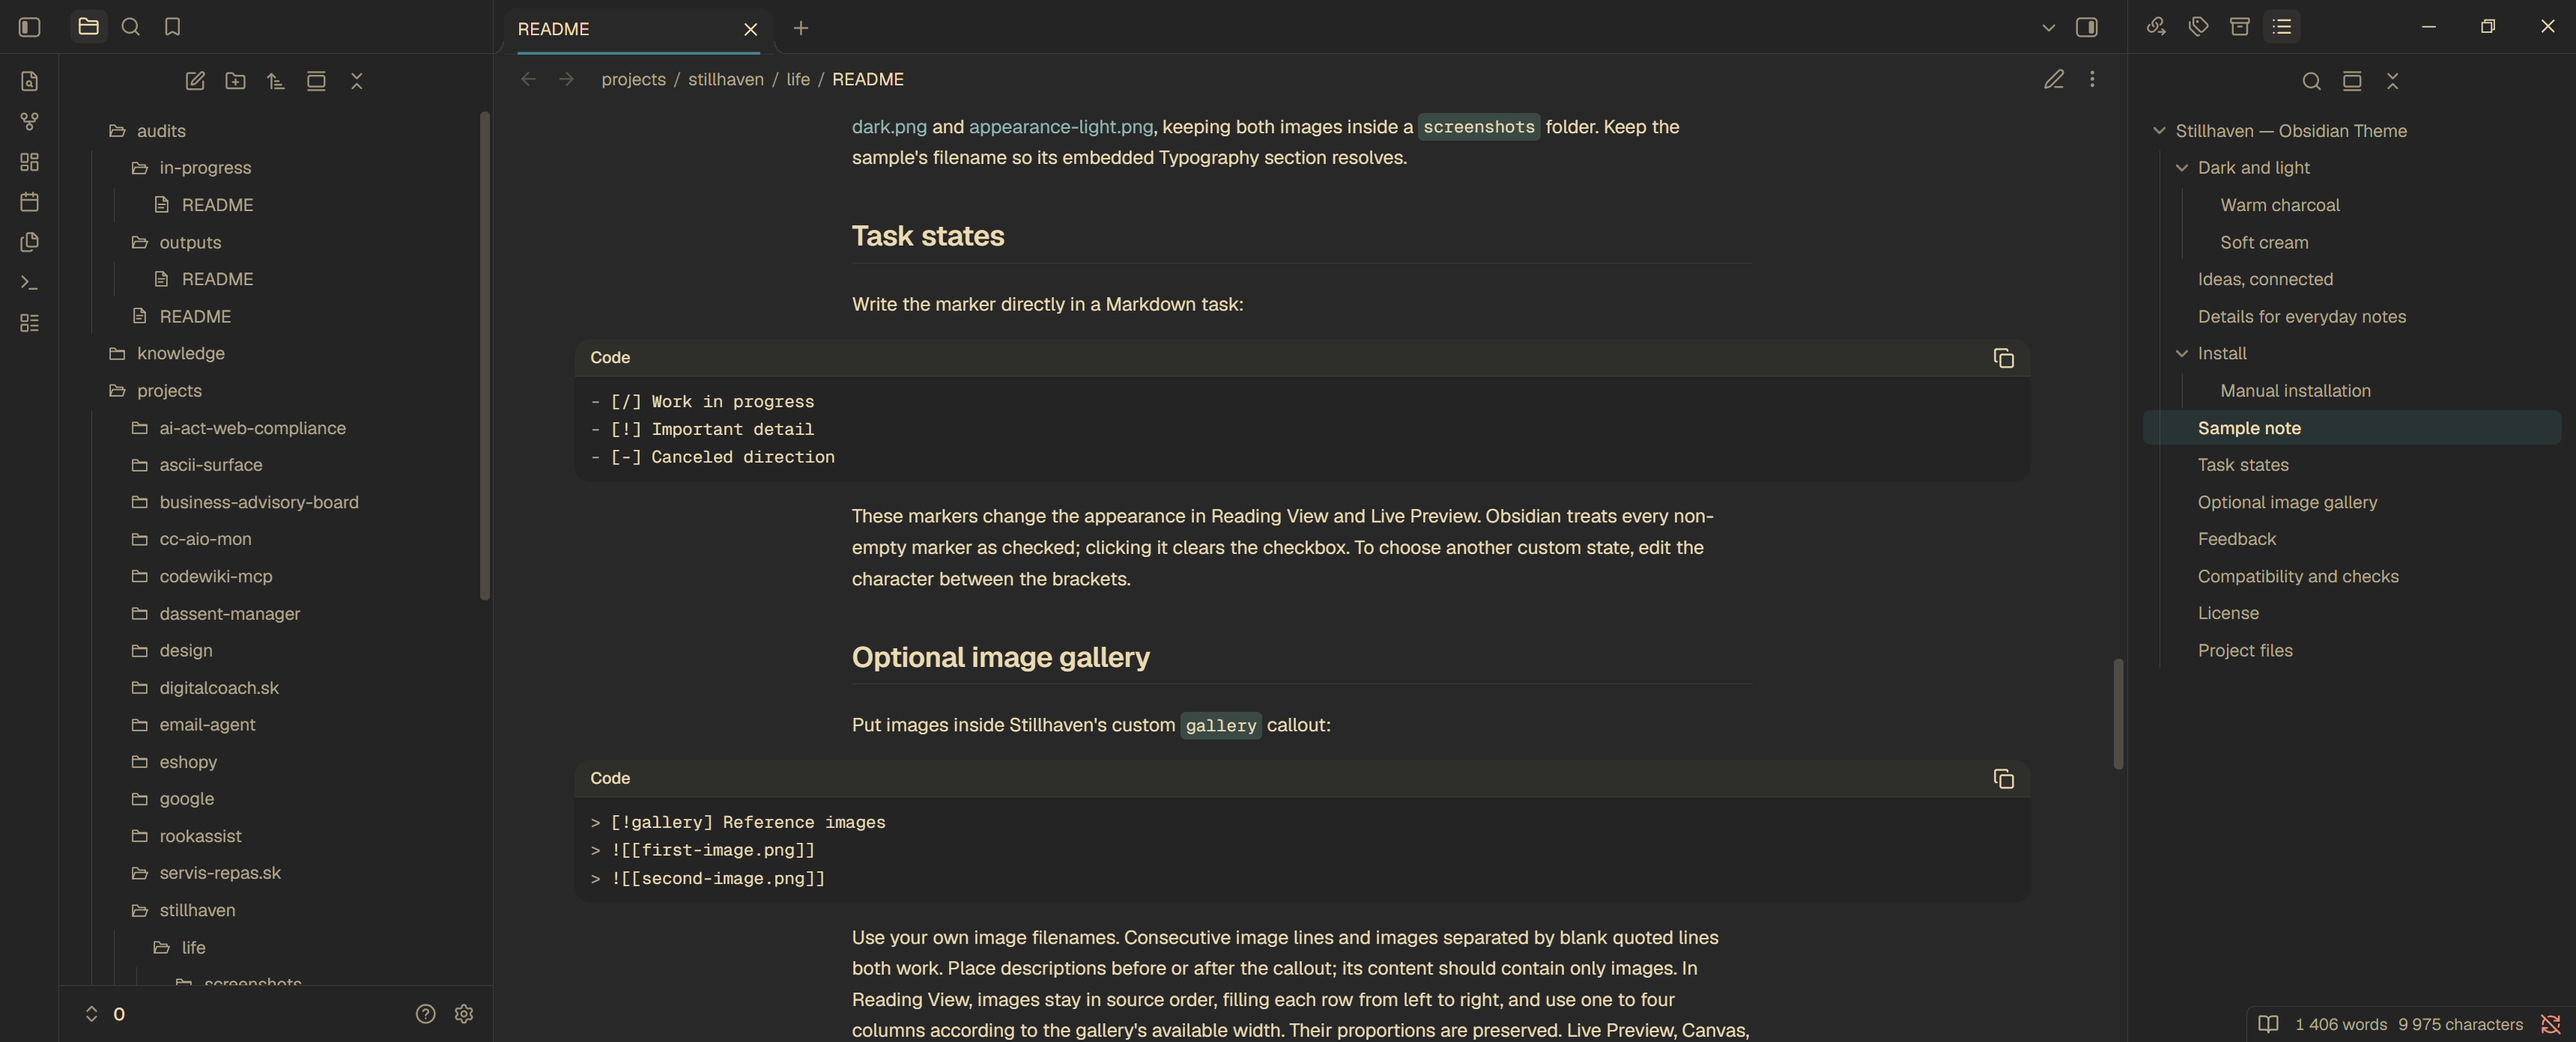
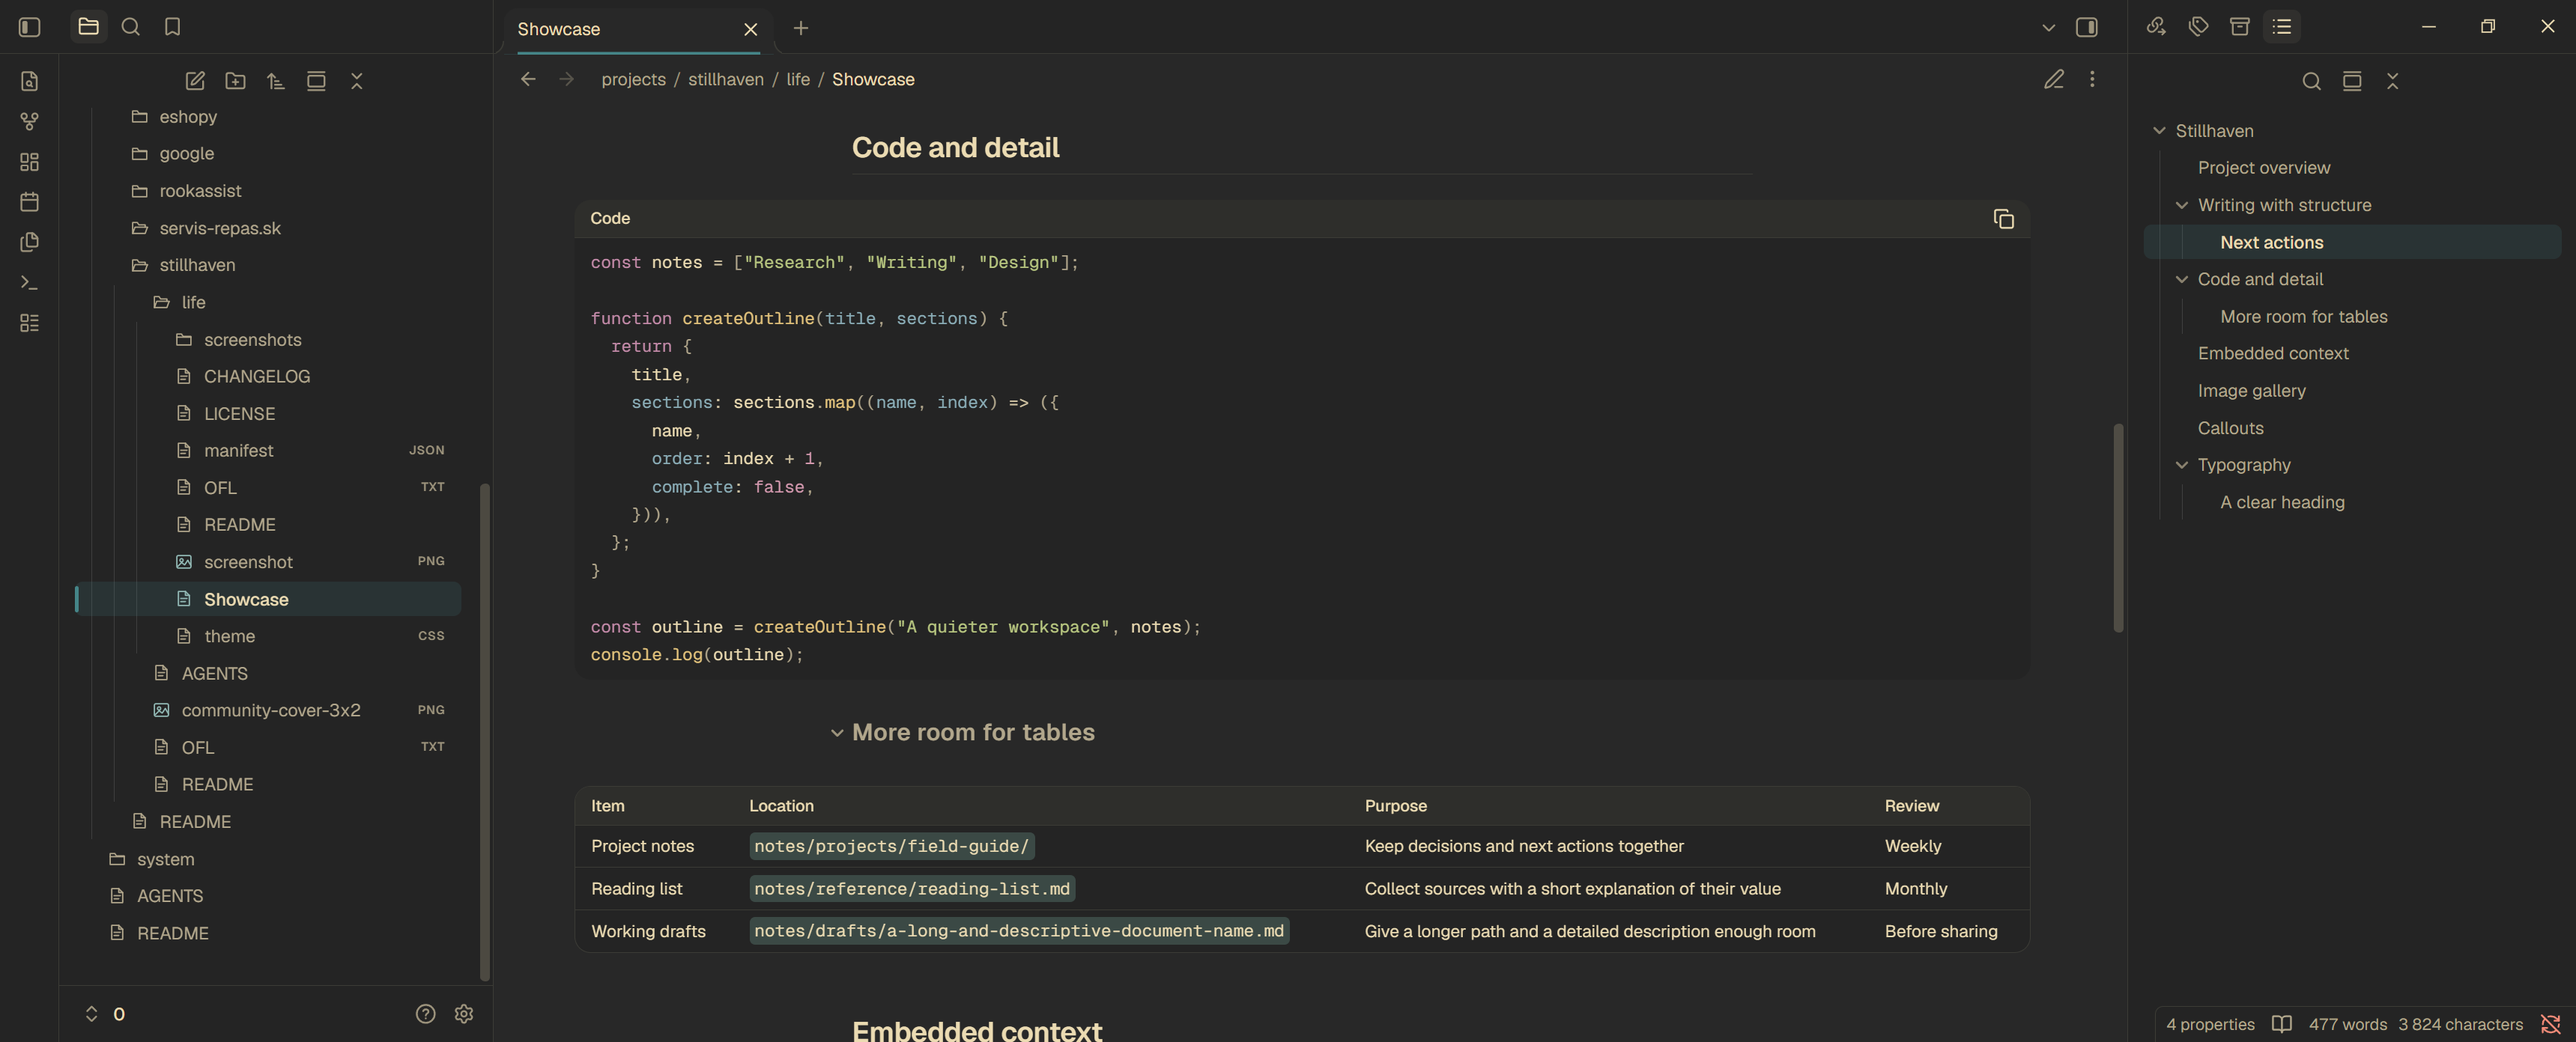
Show code and tables together in the dark screenshot

diff --git a/README.md b/README.md
@@ -36,7 +36,7 @@ structure in light mode.
 A compact toolbar keeps the copy button above the code. Neutral surfaces match
 the surrounding note, while inline code has a clearer background.
 
-![Stillhaven dark mode showing code blocks with compact copy toolbars](screenshots/code-dark.png)
+![Stillhaven dark mode showing a code block with its copy toolbar and a compact table](screenshots/code-dark.png)
 
 ## Ideas, connected
 
